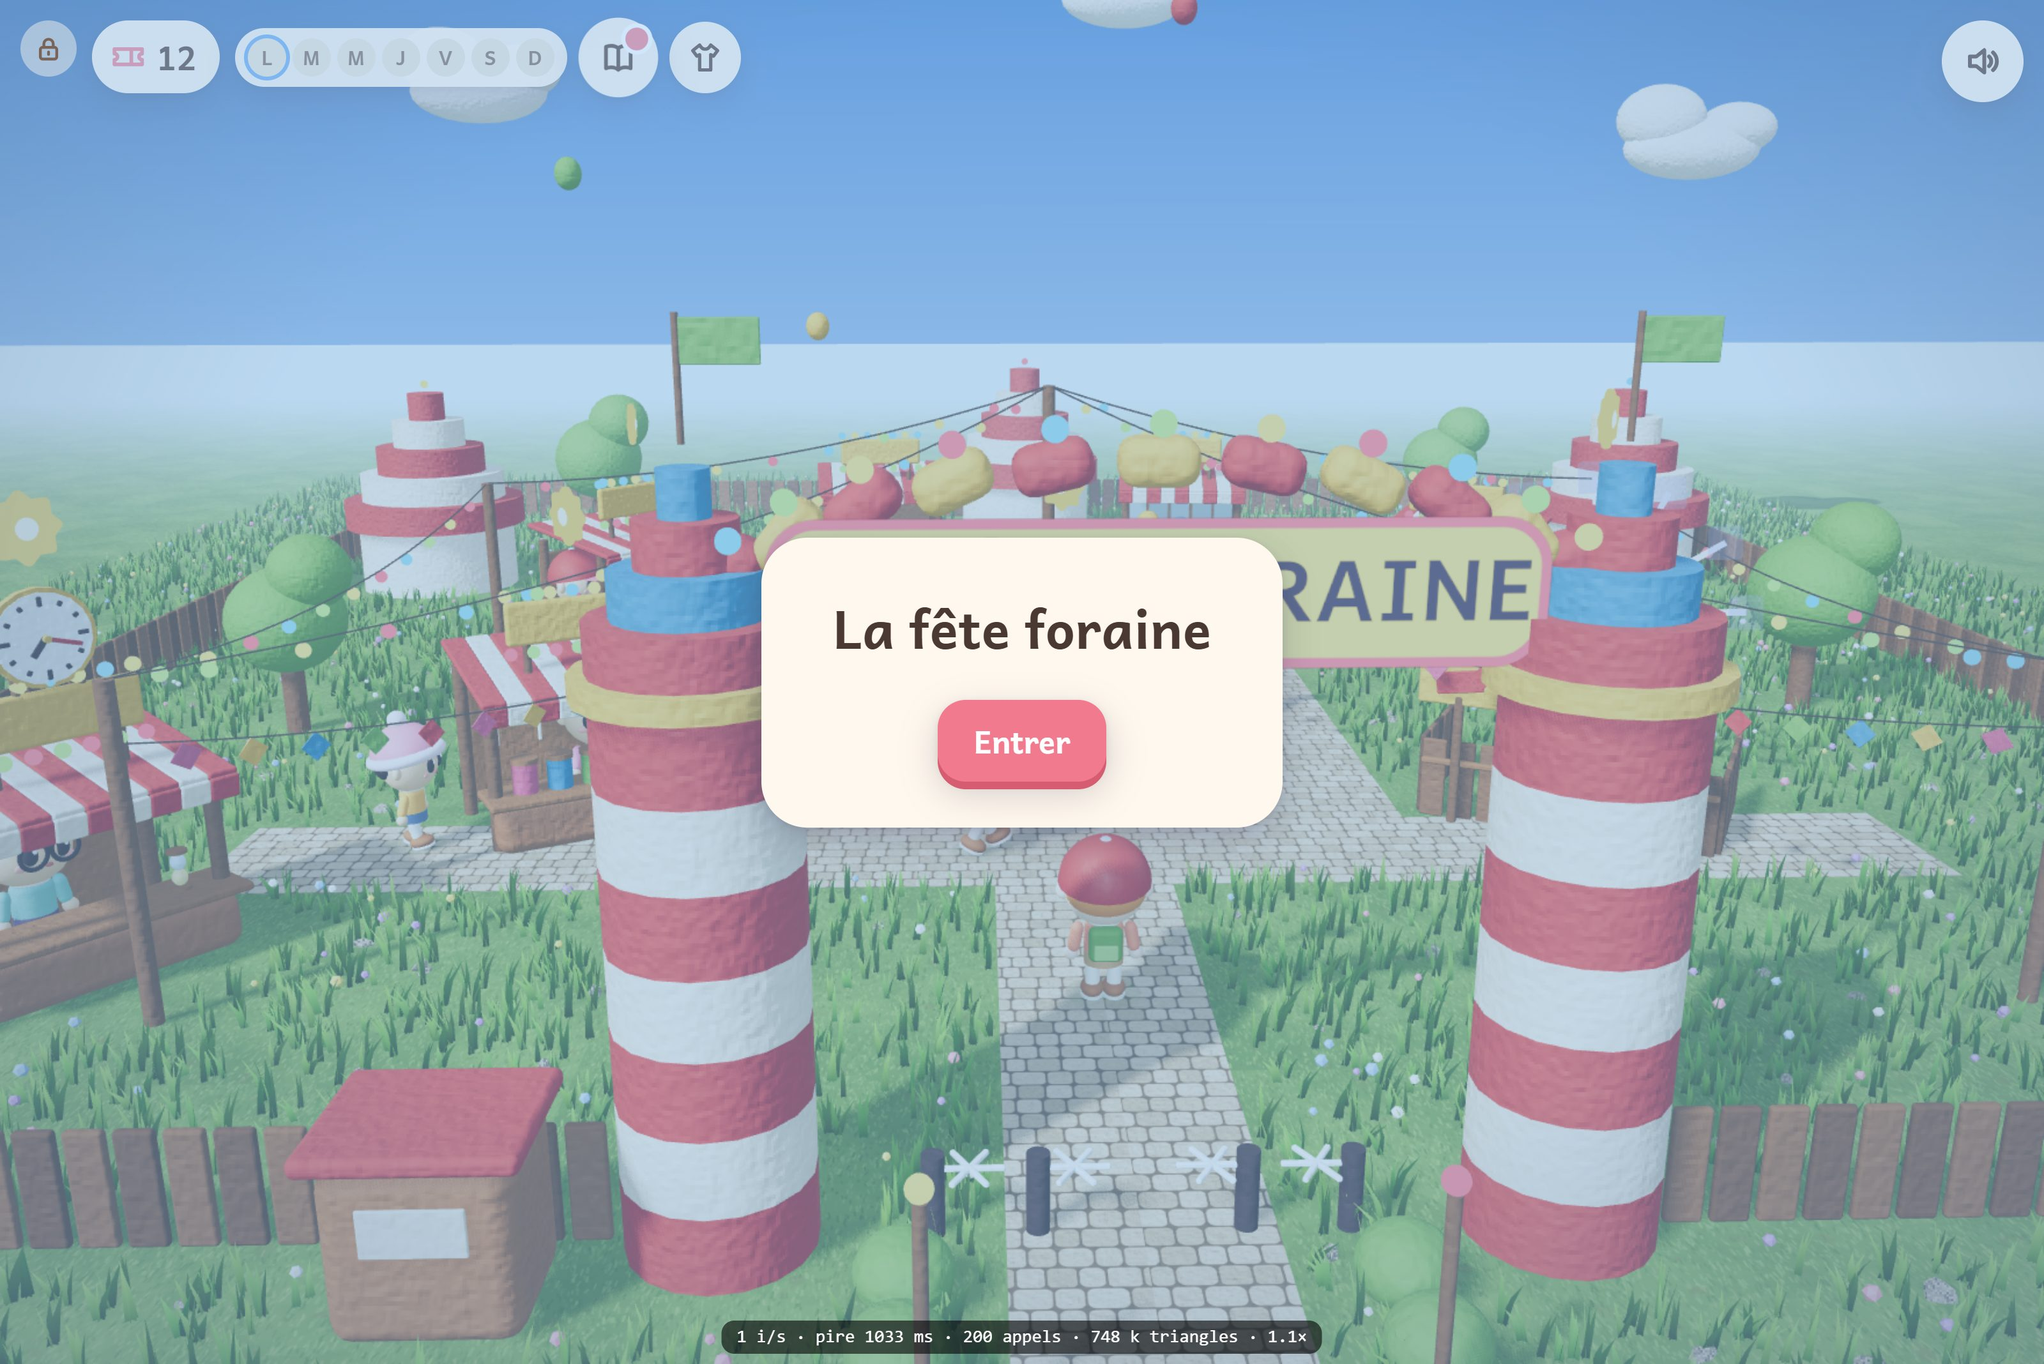
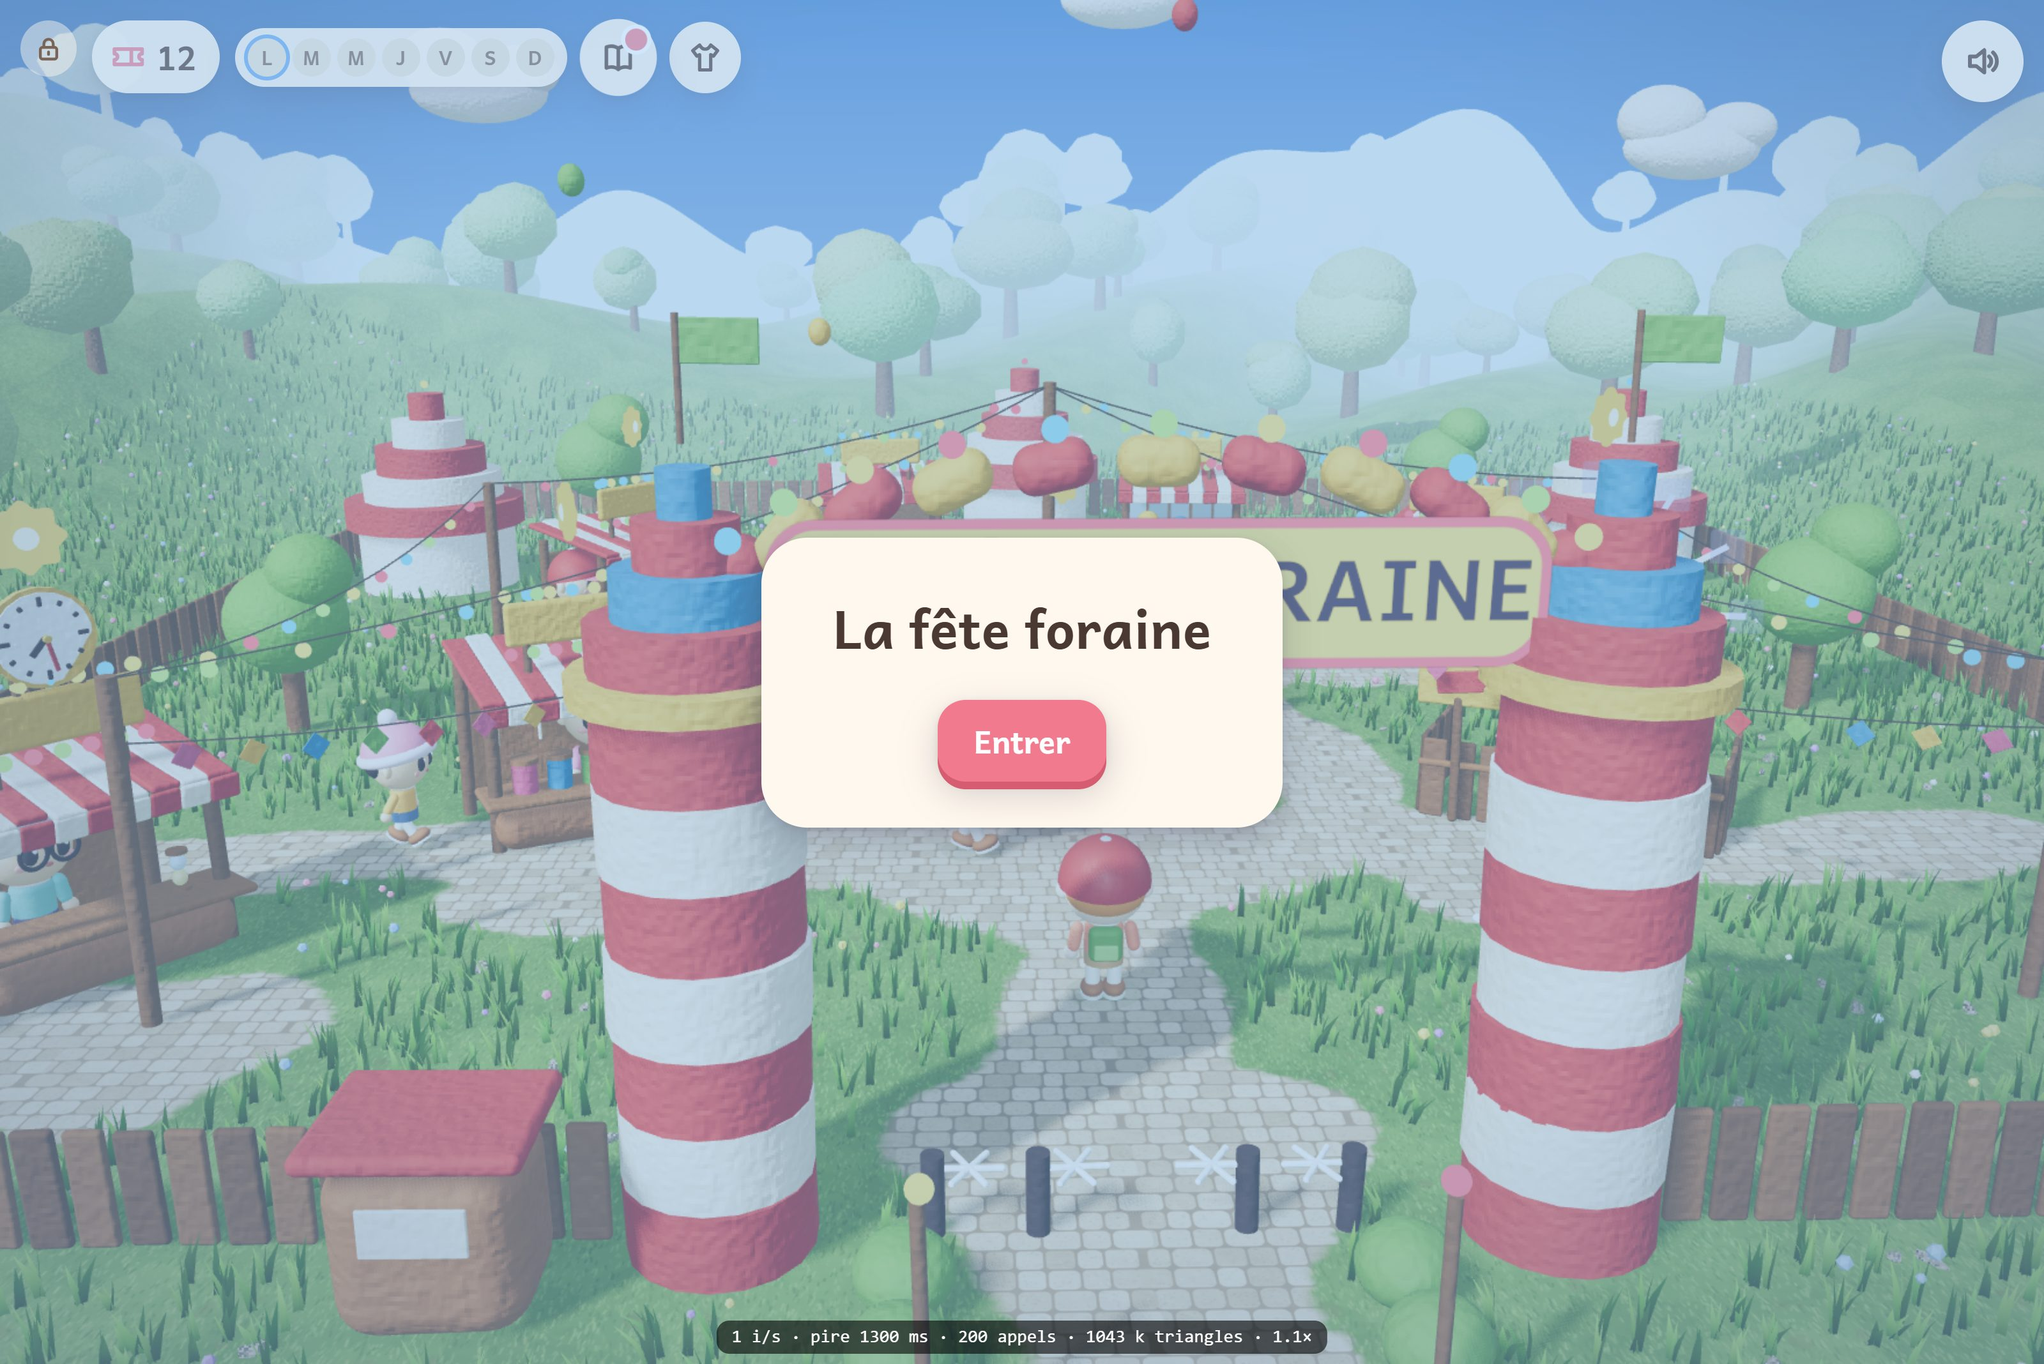
Terrain d'un seul tenant : replat de la fête, collines boisées, chemins courbes aux bords irréguliers, placettes arrondies ; formes plus arrondies posées « à la main »

diff --git a/src/scene/terrain.ts b/src/scene/terrain.ts
@@ -1,0 +1,198 @@
+// Le terrain de la qualité haute : un sol d'un seul tenant. La fête est sur un replat ; autour,
+// des collines boisées. Les chemins ne sont plus des bandes droites : ce sont des courbes aux bords
+// irréguliers, peintes dans une carte de mélange herbe / pavés, avec des placettes arrondies
+// devant les stands.
+
+import * as THREE from 'three';
+import { materiauDetaille } from './qualite.ts';
+
+// --- Le relief ----------------------------------------------------------------------------------
+/** Le replat de la fête (là où l'on marche) : rien n'y bouge, le personnage reste à y = 0. */
+const REPLAT = { x: 27, zMin: -45, zMax: 36 };
+
+const lisse = (t: number): number => {
+  const u = Math.min(1, Math.max(0, t));
+  return u * u * (3 - 2 * u);
+};
+
+/** Hauteur du sol en (x, z) : 0 sur le replat, des collines douces au-delà. */
+export function hauteurSol(x: number, z: number): number {
+  const dx = Math.max(0, Math.abs(x) - REPLAT.x);
+  const dz = Math.max(0, REPLAT.zMin - z, z - REPLAT.zMax);
+  const d = Math.hypot(dx, dz);
+  if (d <= 0) return 0;
+  const collines =
+    3.2 + 2.4 * Math.sin(x * 0.085 + 1.3) * Math.cos(z * 0.07) + 1.6 * Math.sin((x - z) * 0.05 + 0.4) + 0.7 * Math.sin(x * 0.23 + z * 0.17);
+  return lisse(d / 18) * Math.max(0.6, collines) * (1 + d * 0.03);
+}
+
+// --- Les chemins ----------------------------------------------------------------------------------
+/** Les chemins de la fête, en points de passage (x, z) : la courbe passe par chacun. */
+export const CHEMINS: Array<{ points: Array<[number, number]>; largeur: number }> = [
+  // L'allée d'arrivée, de la route à la place.
+  { points: [[0.4, 36], [-0.3, 26], [0.5, 17], [-0.2, 10], [0.3, 4], [0, -1]], largeur: 3.2 },
+  // La grande allée en travers, qui ondule.
+  { points: [[-19, -0.2], [-12, -1.6], [-5, -0.6], [0, -1], [5, -1.8], [12, -0.4], [19, -1.4]], largeur: 3.2 },
+  // Les deux allées vers le fond, de chaque côté du chamboule-tout.
+  { points: [[-5, -1], [-6.4, -7], [-5, -13], [-6, -18], [-5.4, -23]], largeur: 2.7 },
+  { points: [[5, -1], [6.2, -6], [4.9, -12], [6.1, -18], [5.5, -23]], largeur: 2.7 },
+  // L'allée du fond.
+  { points: [[-16, -22], [-9, -23.6], [0, -22.4], [9, -23.4], [16, -22]], largeur: 2.9 },
+];
+
+/** La carte des chemins couvre 100 × 100 m autour de la fête. */
+const CARTE = { x0: -50, z0: -60, taille: 100, px: 1024 };
+
+export interface Terrain {
+  racine: THREE.Group;
+  /** Pavés à cet endroit ? (0 : herbe, 1 : pavés) */
+  pave(x: number, z: number): number;
+}
+
+/** Une forme ronde mais irrégulière (placette), décrite par son contour. */
+function tache(c: CanvasRenderingContext2D, x: number, y: number, r: number, graine: number): void {
+  c.beginPath();
+  for (let i = 0; i <= 40; i++) {
+    const a = (i / 40) * Math.PI * 2;
+    const rr = r * (1 + 0.12 * Math.sin(a * 3 + graine) + 0.07 * Math.sin(a * 5 + graine * 2.3));
+    const px = x + Math.cos(a) * rr;
+    const py = y + Math.sin(a) * rr;
+    if (i === 0) c.moveTo(px, py);
+    else c.lineTo(px, py);
+  }
+  c.fill();
+}
+
+function dessinerCarte(placettes: Array<{ x: number; z: number; r: number }>): HTMLCanvasElement {
+  const brut = document.createElement('canvas');
+  brut.width = brut.height = CARTE.px;
+  const c = brut.getContext('2d');
+  const echelle = CARTE.px / CARTE.taille;
+  const vers = (x: number, z: number): [number, number] => [(x - CARTE.x0) * echelle, (z - CARTE.z0) * echelle];
+  if (c) {
+    c.fillStyle = '#000';
+    c.fillRect(0, 0, CARTE.px, CARTE.px);
+    c.fillStyle = '#fff';
+    for (const [n, chemin] of CHEMINS.entries()) {
+      const courbe = new THREE.CatmullRomCurve3(chemin.points.map(([x, z]) => new THREE.Vector3(x, 0, z)));
+      const longueur = courbe.getLength();
+      const pas = Math.ceil(longueur / 0.2);
+      for (let i = 0; i <= pas; i++) {
+        const p = courbe.getPointAt(i / pas);
+        const s = (i / pas) * longueur;
+        // La largeur respire le long du chemin : jamais deux bords parallèles.
+        const r = (chemin.largeur / 2) * (1 + 0.14 * Math.sin(s * 0.7 + n) + 0.08 * Math.sin(s * 1.9 + n * 2));
+        const [px, py] = vers(p.x, p.z);
+        c.beginPath();
+        c.arc(px, py, r * echelle, 0, Math.PI * 2);
+        c.fill();
+      }
+    }
+    for (const [i, p] of placettes.entries()) {
+      const [px, py] = vers(p.x, p.z);
+      tache(c, px, py, p.r * echelle, i * 1.7);
+    }
+  }
+  // Bords fondus : la herbe mange un peu les pavés.
+  const doux = document.createElement('canvas');
+  doux.width = doux.height = CARTE.px;
+  const d = doux.getContext('2d');
+  if (d) {
+    d.filter = 'blur(4px)';
+    d.drawImage(brut, 0, 0);
+  }
+  return doux;
+}
+
+export function construireTerrain(herbe: THREE.Texture, dalles: THREE.Texture, placettes: Array<{ x: number; z: number; r: number }>): Terrain {
+  const racine = new THREE.Group();
+  const carte = dessinerCarte(placettes);
+  const pixels = carte.getContext('2d')?.getImageData(0, 0, CARTE.px, CARTE.px).data;
+  const masque = new THREE.CanvasTexture(carte);
+  masque.colorSpace = THREE.NoColorSpace;
+  masque.minFilter = THREE.LinearFilter;
+  masque.generateMipmaps = false;
+  // La première ligne de la carte est le bord z0 : pas de retournement.
+  masque.flipY = false;
+
+  // Le sol : un grand maillage subdivisé qui suit le relief.
+  const geo = new THREE.PlaneGeometry(240, 240, 200, 200).rotateX(-Math.PI / 2).translate(0, 0, -8);
+  const pos = geo.getAttribute('position');
+  for (let i = 0; i < pos.count; i++) pos.setY(i, hauteurSol(pos.getX(i), pos.getZ(i)));
+  geo.computeVertexNormals();
+
+  const mat = materiauDetaille({ map: herbe, roughness: 0.93 }, { relief: 0.07, teinte: 0.1, grain: 1.2 });
+  const avant = mat.onBeforeCompile;
+  mat.onBeforeCompile = (shader, renderer) => {
+    avant.call(mat, shader, renderer);
+    shader.uniforms.uDalles = { value: dalles };
+    shader.uniforms.uMasque = { value: masque };
+    shader.fragmentShader = shader.fragmentShader
+      .replace('#include <common>', '#include <common>\nuniform sampler2D uDalles;\nuniform sampler2D uMasque;')
+      .replace(
+        '#include <map_fragment>',
+        `// Herbe et pavés mélangés selon la carte des chemins, avec un bord irrégulier.
+        vec2 sol = vPosMonde.xz;
+        vec4 couleurHerbe = texture2D(map, sol * 0.125);
+        vec4 couleurPaves = texture2D(uDalles, sol * 0.3125);
+        float chemin = texture2D(uMasque, (sol - vec2(${CARTE.x0.toFixed(1)}, ${CARTE.z0.toFixed(1)})) / ${CARTE.taille.toFixed(1)}).r;
+        chemin = smoothstep(0.38, 0.62, chemin + (bruit3(vPosMonde * 1.3) - 0.5) * 0.45);
+        diffuseColor *= mix(couleurHerbe, couleurPaves, chemin);`,
+      );
+  };
+  mat.customProgramCacheKey = () => 'terrain';
+  const sol = new THREE.Mesh(geo, mat);
+  sol.receiveShadow = true;
+  racine.add(sol);
+
+  const pave = (x: number, z: number): number => {
+    if (!pixels) return 0;
+    const px = Math.floor(((x - CARTE.x0) / CARTE.taille) * CARTE.px);
+    const pz = Math.floor(((z - CARTE.z0) / CARTE.taille) * CARTE.px);
+    if (px < 0 || pz < 0 || px >= CARTE.px || pz >= CARTE.px) return 0;
+    return (pixels[(pz * CARTE.px + px) * 4] ?? 0) / 255;
+  };
+
+  // Des arbres ronds sur les collines : troncs et houppiers, deux appels de dessin en tout.
+  const N = 260;
+  const troncs = new THREE.InstancedMesh(new THREE.CylinderGeometry(0.22, 0.32, 1, 7), materiauDetaille({ color: 0x5a3f2b }, { relief: 0.1, teinte: 0.12, grain: 0.3 }), N);
+  const houppiers = new THREE.InstancedMesh(new THREE.IcosahedronGeometry(1, 1), materiauDetaille({ color: 0xffffff, roughness: 0.95 }, { relief: 0.18, teinte: 0.16, grain: 0.6 }), N * 2);
+  const m = new THREE.Matrix4();
+  const q = new THREE.Quaternion();
+  const s = new THREE.Vector3();
+  const p = new THREE.Vector3();
+  const couleur = new THREE.Color();
+  let graine = 77;
+  const hasard = (): number => (graine = (graine * 16807) % 2147483647) / 2147483647;
+  let t = 0;
+  let h = 0;
+  for (let essai = 0; t < N && essai < 5000; essai++) {
+    const x = (hasard() * 2 - 1) * 105;
+    const z = -8 + (hasard() * 2 - 1) * 105;
+    const y = hauteurSol(x, z);
+    if (y < 0.8) continue;
+    const taille = 0.8 + hasard() * 0.9;
+    const haut = 2.6 * taille;
+    p.set(x, y + haut / 2 - 0.2, z);
+    troncs.setMatrixAt(t, m.compose(p, q.identity(), s.set(taille, haut, taille)));
+    // Deux boules un peu décalées par arbre : une silhouette moins régulière.
+    for (let k = 0; k < 2; k++) {
+      p.set(x + (hasard() - 0.5) * 1.2 * taille, y + haut + (0.6 + k * 0.9) * taille, z + (hasard() - 0.5) * 1.2 * taille);
+      s.set(1.6 + hasard() * 0.8, 1.3 + hasard() * 0.6, 1.6 + hasard() * 0.8).multiplyScalar(taille * (k ? 0.8 : 1.1));
+      q.setFromAxisAngle(new THREE.Vector3(0, 1, 0), hasard() * 6);
+      houppiers.setMatrixAt(h, m.compose(p, q, s));
+      houppiers.setColorAt(h, couleur.setHSL(0.26 + hasard() * 0.07, 0.42 + hasard() * 0.15, 0.27 + hasard() * 0.12));
+      h++;
+    }
+    t++;
+  }
+  troncs.count = t;
+  houppiers.count = h;
+  for (const i of [troncs, houppiers]) {
+    i.frustumCulled = false;
+    i.receiveShadow = true;
+    racine.add(i);
+  }
+
+  return { racine, pave };
+}

diff --git a/src/scene/qualite.ts b/src/scene/qualite.ts
@@ -207,7 +207,12 @@ function touffe(): THREE.BufferGeometry {
  * Des touffes d'herbe sur toute la fête (un seul appel de dessin), sauf sur les allées et sous les
  * stands. Elles ondulent au vent dans le shader. libre(x, z) : vrai si on peut y mettre de l'herbe.
  */
-export function semerHerbe(libre: (x: number, z: number) => boolean, nombre: number, zone: { x: number; zMin: number; zMax: number }): Herbe {
+export function semerHerbe(
+  libre: (x: number, z: number) => boolean,
+  nombre: number,
+  zone: { x: number; zMin: number; zMax: number },
+  sol: (x: number, z: number) => number = () => 0,
+): Herbe {
   const racine = new THREE.Group();
   const temps = { value: 0 };
   const mat = new THREE.MeshStandardMaterial({ vertexColors: true, roughness: 0.9, side: THREE.DoubleSide });
@@ -239,7 +244,7 @@ export function semerHerbe(libre: (x: number, z: number) => boolean, nombre: num
     const x = (hasard() * 2 - 1) * zone.x;
     const z = zone.zMin + hasard() * (zone.zMax - zone.zMin);
     if (!libre(x, z)) continue;
-    p.set(x, 0, z);
+    p.set(x, sol(x, z), z);
     q.setFromAxisAngle(new THREE.Vector3(0, 1, 0), hasard() * Math.PI * 2);
     const hauteur = 0.35 + hasard() * 0.4;
     const largeur = 0.8 + hasard() * 0.7;
@@ -261,7 +266,7 @@ export function semerHerbe(libre: (x: number, z: number) => boolean, nombre: num
     const x = (hasard() * 2 - 1) * zone.x;
     const z = zone.zMin + hasard() * (zone.zMax - zone.zMin);
     if (!libre(x, z)) continue;
-    p.set(x, 0.32 + hasard() * 0.2, z);
+    p.set(x, sol(x, z) + 0.32 + hasard() * 0.2, z);
     s.setScalar(0.8 + hasard() * 0.8);
     fleurs.setMatrixAt(f, m.compose(p, q.identity(), s));
     fleurs.setColorAt(f, c.set(teintes[f % teintes.length] ?? 0xffffff));
@@ -278,7 +283,7 @@ export function semerHerbe(libre: (x: number, z: number) => boolean, nombre: num
     const x = (hasard() * 2 - 1) * zone.x;
     const z = zone.zMin + hasard() * (zone.zMax - zone.zMin);
     if (!libre(x, z)) continue;
-    p.set(x, 0.02, z);
+    p.set(x, sol(x, z) + 0.02, z);
     q.setFromEuler(new THREE.Euler(hasard() * 3, hasard() * 3, hasard() * 3));
     s.set(0.6 + hasard() * 1.4, 0.4 + hasard() * 0.5, 0.6 + hasard() * 1.2);
     cailloux.setMatrixAt(k, m.compose(p, q, s));

diff --git a/src/main.ts b/src/main.ts
@@ -72,6 +72,8 @@ surveillerModeApp();
 import { CameraHaute } from './scene/suivi.ts';
 import { choisirPalette } from './scene/palette.ts';
 import { choisirQualite, eclairer, ombrer, semerHerbe, type Herbe } from './scene/qualite.ts';
+import { construireTerrain, hauteurSol } from './scene/terrain.ts';
+import { texturesDouillettes } from './scene/textures.ts';
 import { Obstacle } from './scene/obstacles.ts';
 import { creerCommandes } from './controles/joystick.ts';
 import { basculerMuet, bruitage, demarrerSon, estMuet, reglerVolumes } from './son/bruitages.ts';
@@ -731,21 +733,20 @@ function libre(x: number, z: number): boolean {
   return apres < enfoncement(h.x, h.z) - 1e-4;
 }
 
-// --- Qualité haute : ombres sur tout le décor, herbe en brins hors des allées et des stands ---------
-/** Les allées pavées (voir fete.ts et entree.ts) : pas d'herbe dessus. */
-const ALLEES: Array<[number, number, number, number]> = [
-  [0, 5, 3.4, 14],
-  [0, -1, 34, 3.6],
-  [-5.5, -12, 3, 22],
-  [5.5, -12, 3, 22],
-  [0, -22.5, 30, 3.4],
-  [0, 23.5, 3.4, 23],
-];
+// --- Qualité haute : le terrain (relief, chemins courbes, placettes), les ombres, l'herbe en brins ---
 if (qualite === 'haute') {
+  // Une placette arrondie devant chaque stand, une sur la grande place, une derrière la porte.
+  const placettes = fete.stands.map((st) => {
+    const versStand = new THREE.Vector3(Math.sin(st.regard), 0, Math.cos(st.regard));
+    return { x: st.approche.x - versStand.x * 0.6, z: st.approche.z - versStand.z * 0.6, r: 2.6 };
+  });
+  placettes.push({ x: 0, z: -1, r: 4.2 }, { x: 0, z: 10.5, r: 3.2 });
+  const textures = texturesDouillettes();
+  const terrain = construireTerrain(textures.herbe, textures.dalles, placettes);
+  scene.add(terrain.racine);
   ombrer(fete.racine);
   ombrer(entree.racine);
-  const surAllee = (x: number, z: number): boolean => ALLEES.some(([ax, az, l, p]) => Math.abs(x - ax) < l / 2 + 0.15 && Math.abs(z - az) < p / 2 + 0.15);
-  herbe = semerHerbe((x, z) => !surAllee(x, z) && enfoncement(x, z) <= 0, 26000, { x: 34, zMin: -52, zMax: 40 });
+  herbe = semerHerbe((x, z) => terrain.pave(x, z) < 0.2 && enfoncement(x, z) <= 0, 24000, { x: 38, zMin: -56, zMax: 44 }, hauteurSol);
   scene.add(herbe.racine);
 }
 

diff --git a/src/scene/atelier.ts b/src/scene/atelier.ts
@@ -99,7 +99,8 @@ export class Atelier {
   /** Un sol plat texturé (herbe fleurie ou dalles), à plat sur y. */
   sol(parent: THREE.Object3D, largeur: number, profondeur: number, x: number, y: number, z: number, genre: 'herbe' | 'dalles'): THREE.Mesh {
     const m = new THREE.Mesh(this.suivre(plaque(largeur, profondeur, x, y, z)), genre === 'herbe' ? this.matHerbe : this.matDalles);
-    parent.add(m);
+    // Qualité haute : le terrain (terrain.ts) dessine le sol et les chemins courbes.
+    if (!this.haute) parent.add(m);
     return m;
   }
 
@@ -132,7 +133,10 @@ export class Atelier {
       case 'gelule':
         return new THREE.CapsuleGeometry(0.5, 1, 4, 14).scale(l, h / 2, p);
       case undefined:
-        return new RoundedBoxGeometry(l, h, p, 2, Math.min(Math.min(l, h, p) * 0.4, 0.28));
+        // Qualité haute : des arrondis plus généreux, plus de bords vifs.
+        return qualite === 'haute'
+          ? new RoundedBoxGeometry(l, h, p, 3, Math.min(Math.min(l, h, p) * 0.45, 0.5))
+          : new RoundedBoxGeometry(l, h, p, 2, Math.min(Math.min(l, h, p) * 0.4, 0.28));
     }
   }
 
@@ -150,6 +154,19 @@ export class Atelier {
     const maillage = new THREE.Mesh(geometrie, options.lumineux ? this.lumiere : options.lisse ? this.matLisse : this.mat);
     maillage.position.set(...position);
     maillage.rotation.set(options.rx ?? 0, options.ry ?? 0, options.rz ?? 0);
+    // Qualité haute : chaque pièce du décor est posée « à la main » (un rien penchée, un rien plus
+    // grande ou plus petite). Toujours la même pour un même endroit : rien ne tremble.
+    if (this.haute && !options.lisse && !options.lumineux) {
+      const graine = position[0] * 12.9898 + position[1] * 78.233 + position[2] * 37.719 + taille[0] * 3.1 + taille[1] * 5.7;
+      const h = (k: number): number => {
+        const v = Math.sin(graine * (k + 1)) * 43758.5453;
+        return v - Math.floor(v) - 0.5;
+      };
+      maillage.rotation.x += h(1) * 0.045;
+      maillage.rotation.y += h(2) * 0.06;
+      maillage.rotation.z += h(3) * 0.045;
+      maillage.scale.multiplyScalar(1 + h(4) * 0.05);
+    }
     parent.add(maillage);
     return maillage;
   }

diff --git a/src/scene/textures.ts b/src/scene/textures.ts
@@ -95,20 +95,23 @@ export function texturesDouillettes(): { herbe: THREE.CanvasTexture; dalles: THR
     ? toile(512, 512, (g) => {
         // Pavés irréguliers : chaque pierre a sa teinte, ses arêtes usées et ses joints sombres.
         const hasard = graine(3);
-        g.fillStyle = '#5d554a';
+        g.fillStyle = '#857a6a';
         g.fillRect(0, 0, 512, 512);
         const rangs = 8;
         for (let r = 0; r < rangs; r++) {
           let x = r % 2 ? -32 : 0;
-          while (x < 512) {
+          while (x < 512 - 24) {
             const l = 48 + hasard() * 40;
             const y = r * 64;
             const base = 150 + hasard() * 40;
             const teinte = `rgb(${base + 18}, ${base + 6}, ${base - 18})`;
             g.fillStyle = teinte;
-            g.beginPath();
-            g.roundRect(x + 3, y + 3, l - 6, 58, 10 + hasard() * 8);
-            g.fill();
+            const arrondi = 10 + hasard() * 8;
+            for (const decalage of [0, -512, 512]) {
+              g.beginPath();
+              g.roundRect(x + 3 + decalage, y + 3, l - 6, 58, arrondi);
+              g.fill();
+            }
             // Grain et taches de la pierre.
             for (let i = 0; i < 40; i++) {
               g.fillStyle = hasard() > 0.5 ? 'rgba(255,255,255,0.10)' : 'rgba(0,0,0,0.10)';
